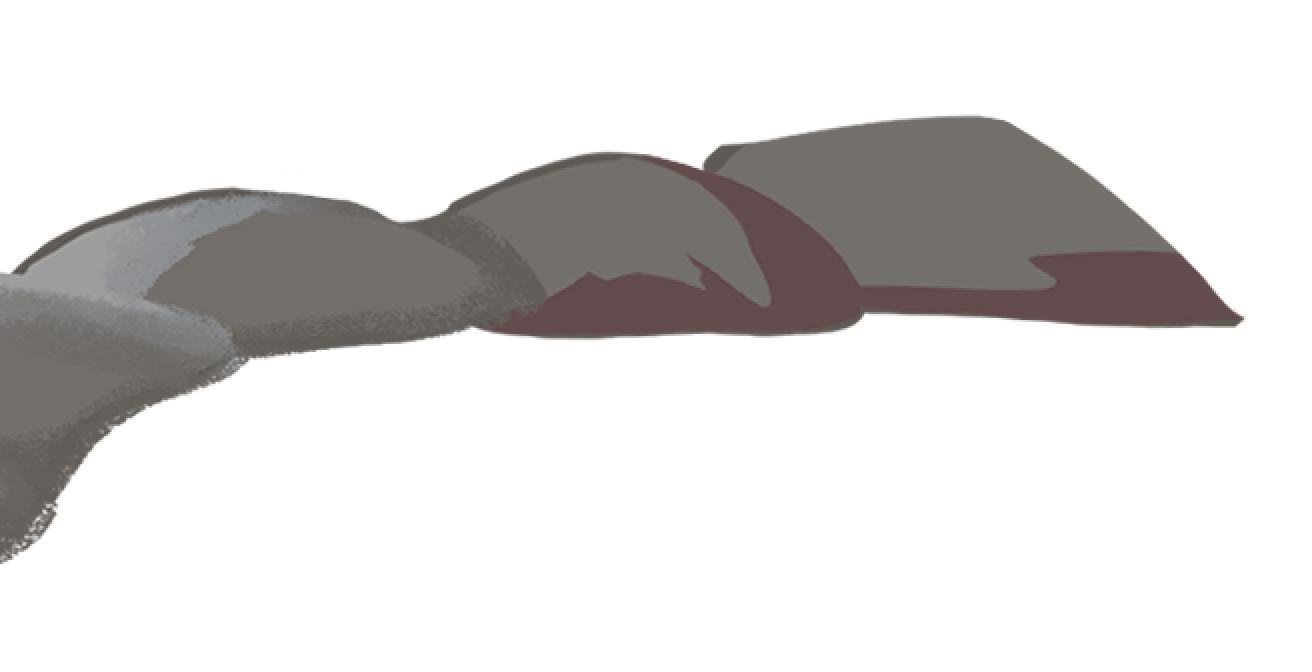
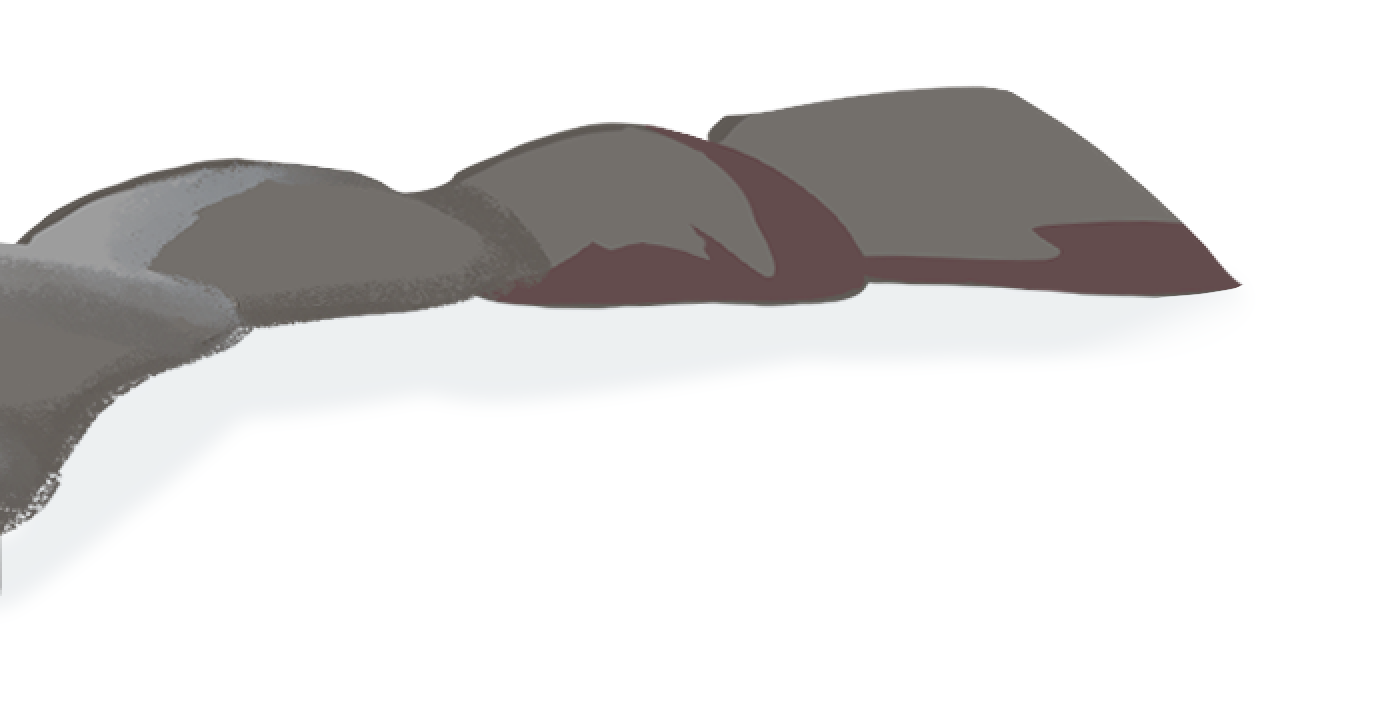
feat(home page): Update boulder assets, change text styling

Changed region(s): [[0.0, 0.125, 0.9688, 0.8438]]

diff --git a/components/homeComponents/HomeFaq.tsx b/components/homeComponents/HomeFaq.tsx
@@ -3,8 +3,8 @@ import styles from './HomeFaq.module.css';
 import Wave2 from '../assets/Wave2';
 import { useContext } from 'react';
 import { SectionReferenceContext } from '@/lib/context/section';
-import BoulderLeft from '../assets/BoulderLeft';
-import BoulderRight from '../assets/BoulderRight';
+import BoulderLeft from 'public/assets/boulderLeft.png';
+import BoulderRight from 'public/assets/boulderRight.png';
 import Image from 'next/image';
 import corgi from 'public/assets/corgi_on_boat.png';
 
@@ -21,23 +21,25 @@ export default function HomeFaq(props: { answeredQuestion: AnsweredQuestion[] })
       >
         {/*****************Delete boulders and corgi once schedule page is back up*****************/}
         {/* Boulder Left */}
-        <BoulderLeft
+        <img
+          src={BoulderLeft.src}
           style={{
             position: 'absolute',
-            top: '-75px', // Move the boulder higher up
+            top: '-105px', // Move the boulder higher up
             left: '0px', // Adjust from the left edge
-            zIndex: 3,
+            zIndex: 10,
             width: '600px', // Set the width to make the boulder less wide
           }}
         />
 
         {/* Boulder Right */}
-        <BoulderRight
+        <img
+          src={BoulderRight.src}
           style={{
             position: 'absolute',
-            top: '-65px', // Move the boulder higher up
+            top: '-105px', // Move the boulder higher up
             right: '0px', // Adjust from the right edge
-            zIndex: 3,
+            zIndex: 10,
             width: '600px', // Set the width to make the boulder less wide
           }}
         />
@@ -46,7 +48,7 @@ export default function HomeFaq(props: { answeredQuestion: AnsweredQuestion[] })
         <div
           style={{
             position: 'absolute',
-            top: '5px', // Adjust this value as needed to position the corgi below the boulders
+            top: '-10px', // Adjust this value as needed to position the corgi below the boulders
             left: '50%',
             transform: 'translateX(-50%)', // Center the image horizontally
             zIndex: 4, // Ensure it is above the boulders and below the text
@@ -70,7 +72,7 @@ export default function HomeFaq(props: { answeredQuestion: AnsweredQuestion[] })
 
         {/* placeholder text */}
         <div id="schedule-section" ref={scheduleRef}>
-          <h1 className="text-stroke text-6xl md:text-6xl sm:text-md xs:text-small font-bold text-[#F7CE79] font-jua text-center pb-10 pt-[10rem] uppercase">
+          <h1 className="text-stroke text-6xl md:text-6xl sm:text-md xs:text-small font-bold text-[#F7CE79] font-jua text-center pb-10 pt-[14rem] uppercase">
             Schedule coming soon...
           </h1>
         </div>

diff --git a/pages/profile.tsx b/pages/profile.tsx
@@ -90,7 +90,11 @@ export default function ProfilePage() {
   };
 
   if (!isSignedIn) {
-    return <div className="p-4 flex-grow text-center text-white">Sign in to see your profile!</div>;
+    return (
+      <div className="p-10 flex-grow text-center text-white text-xl">
+        Sign in to see your profile!
+      </div>
+    );
   }
 
   if (!hasProfile) {
